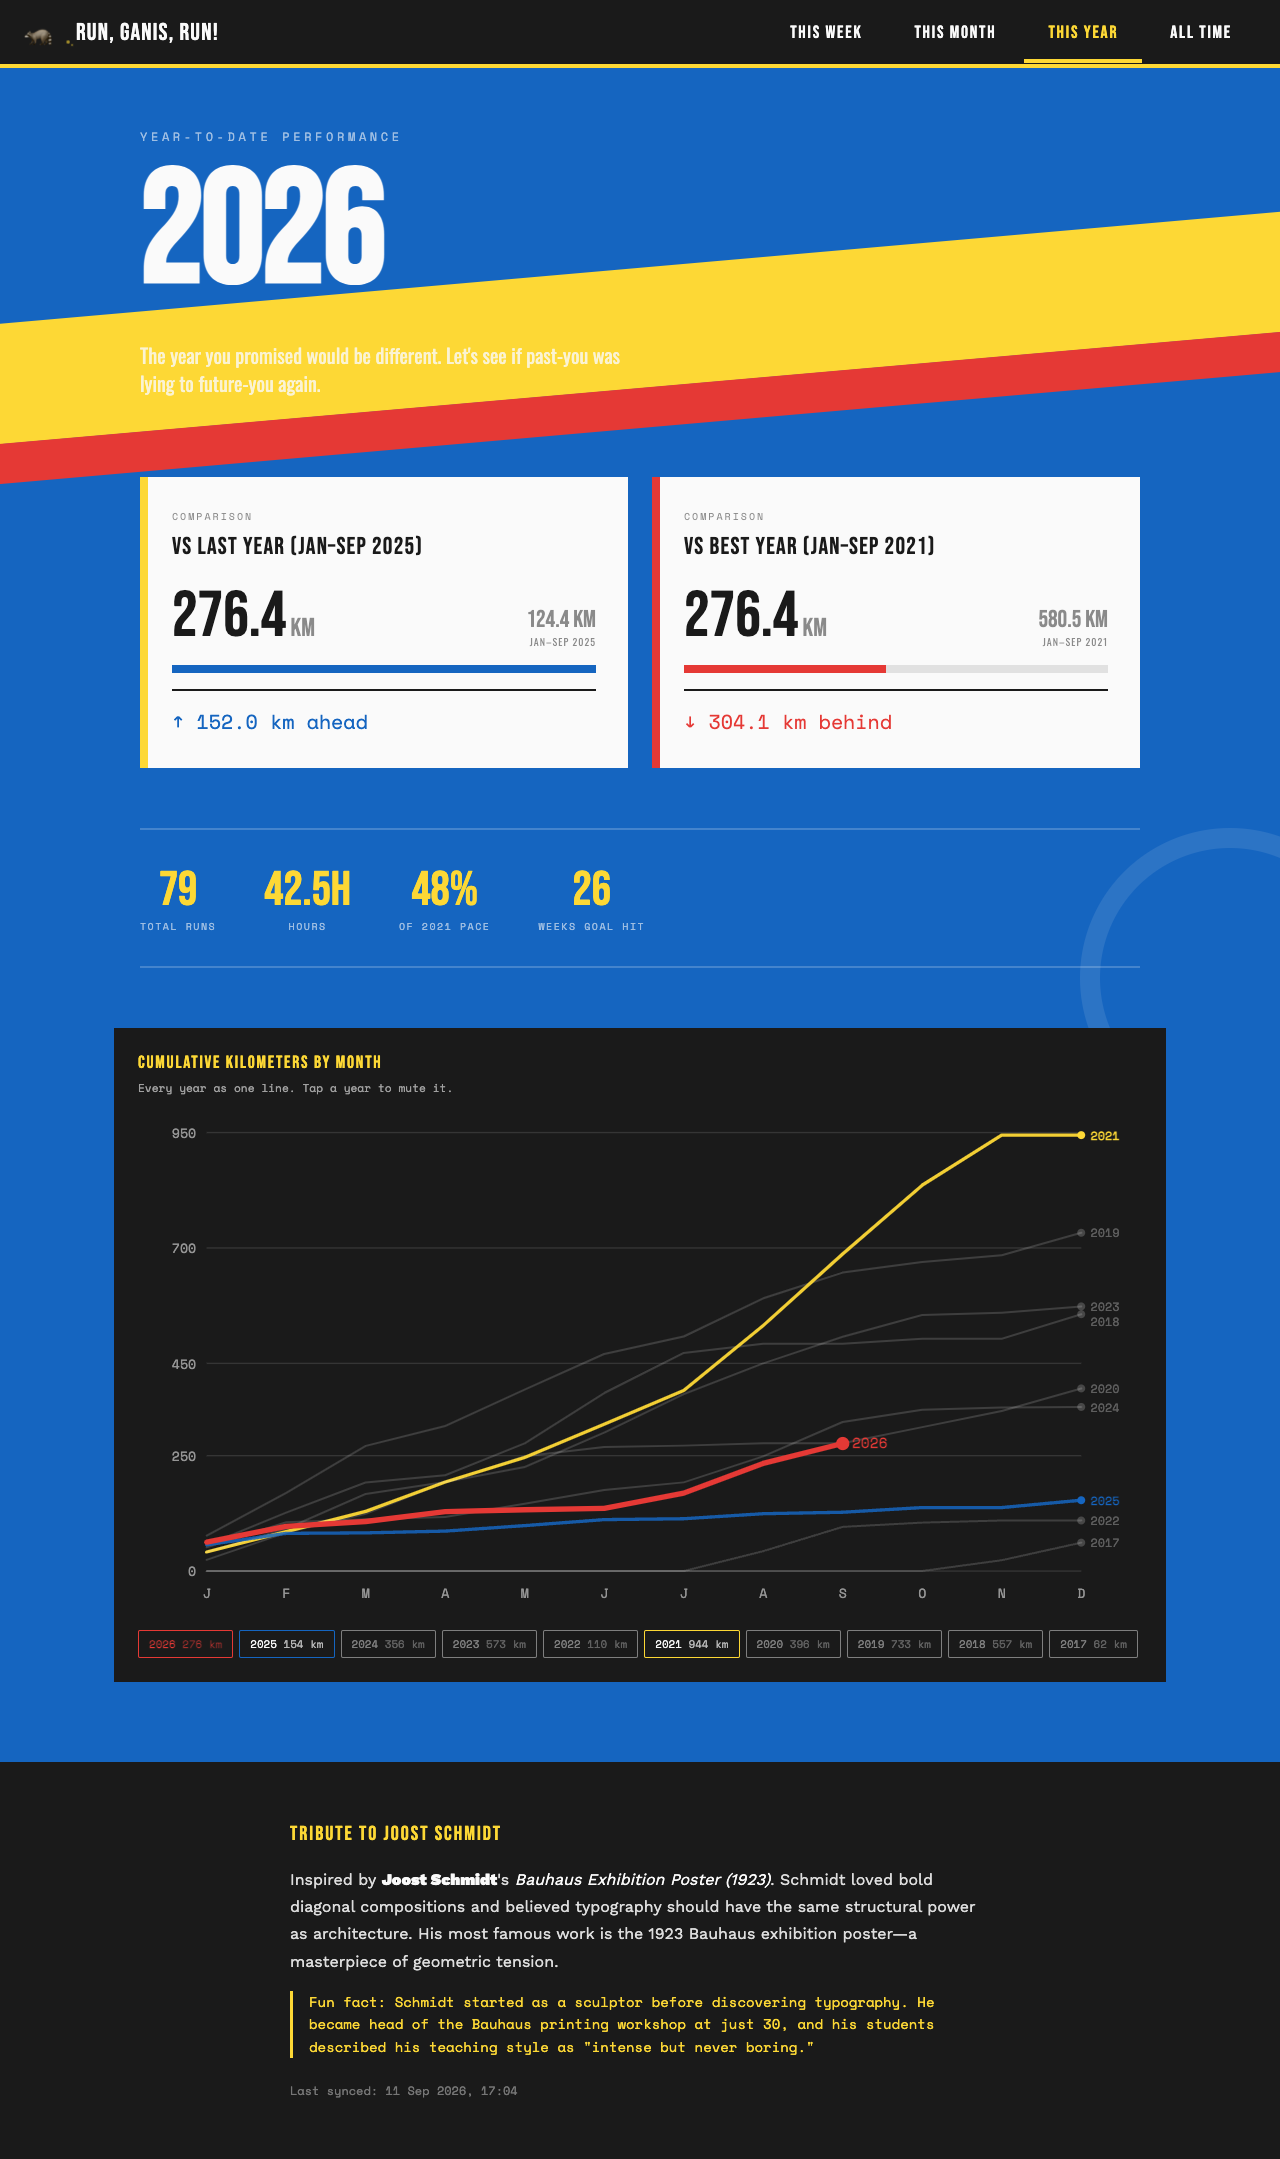
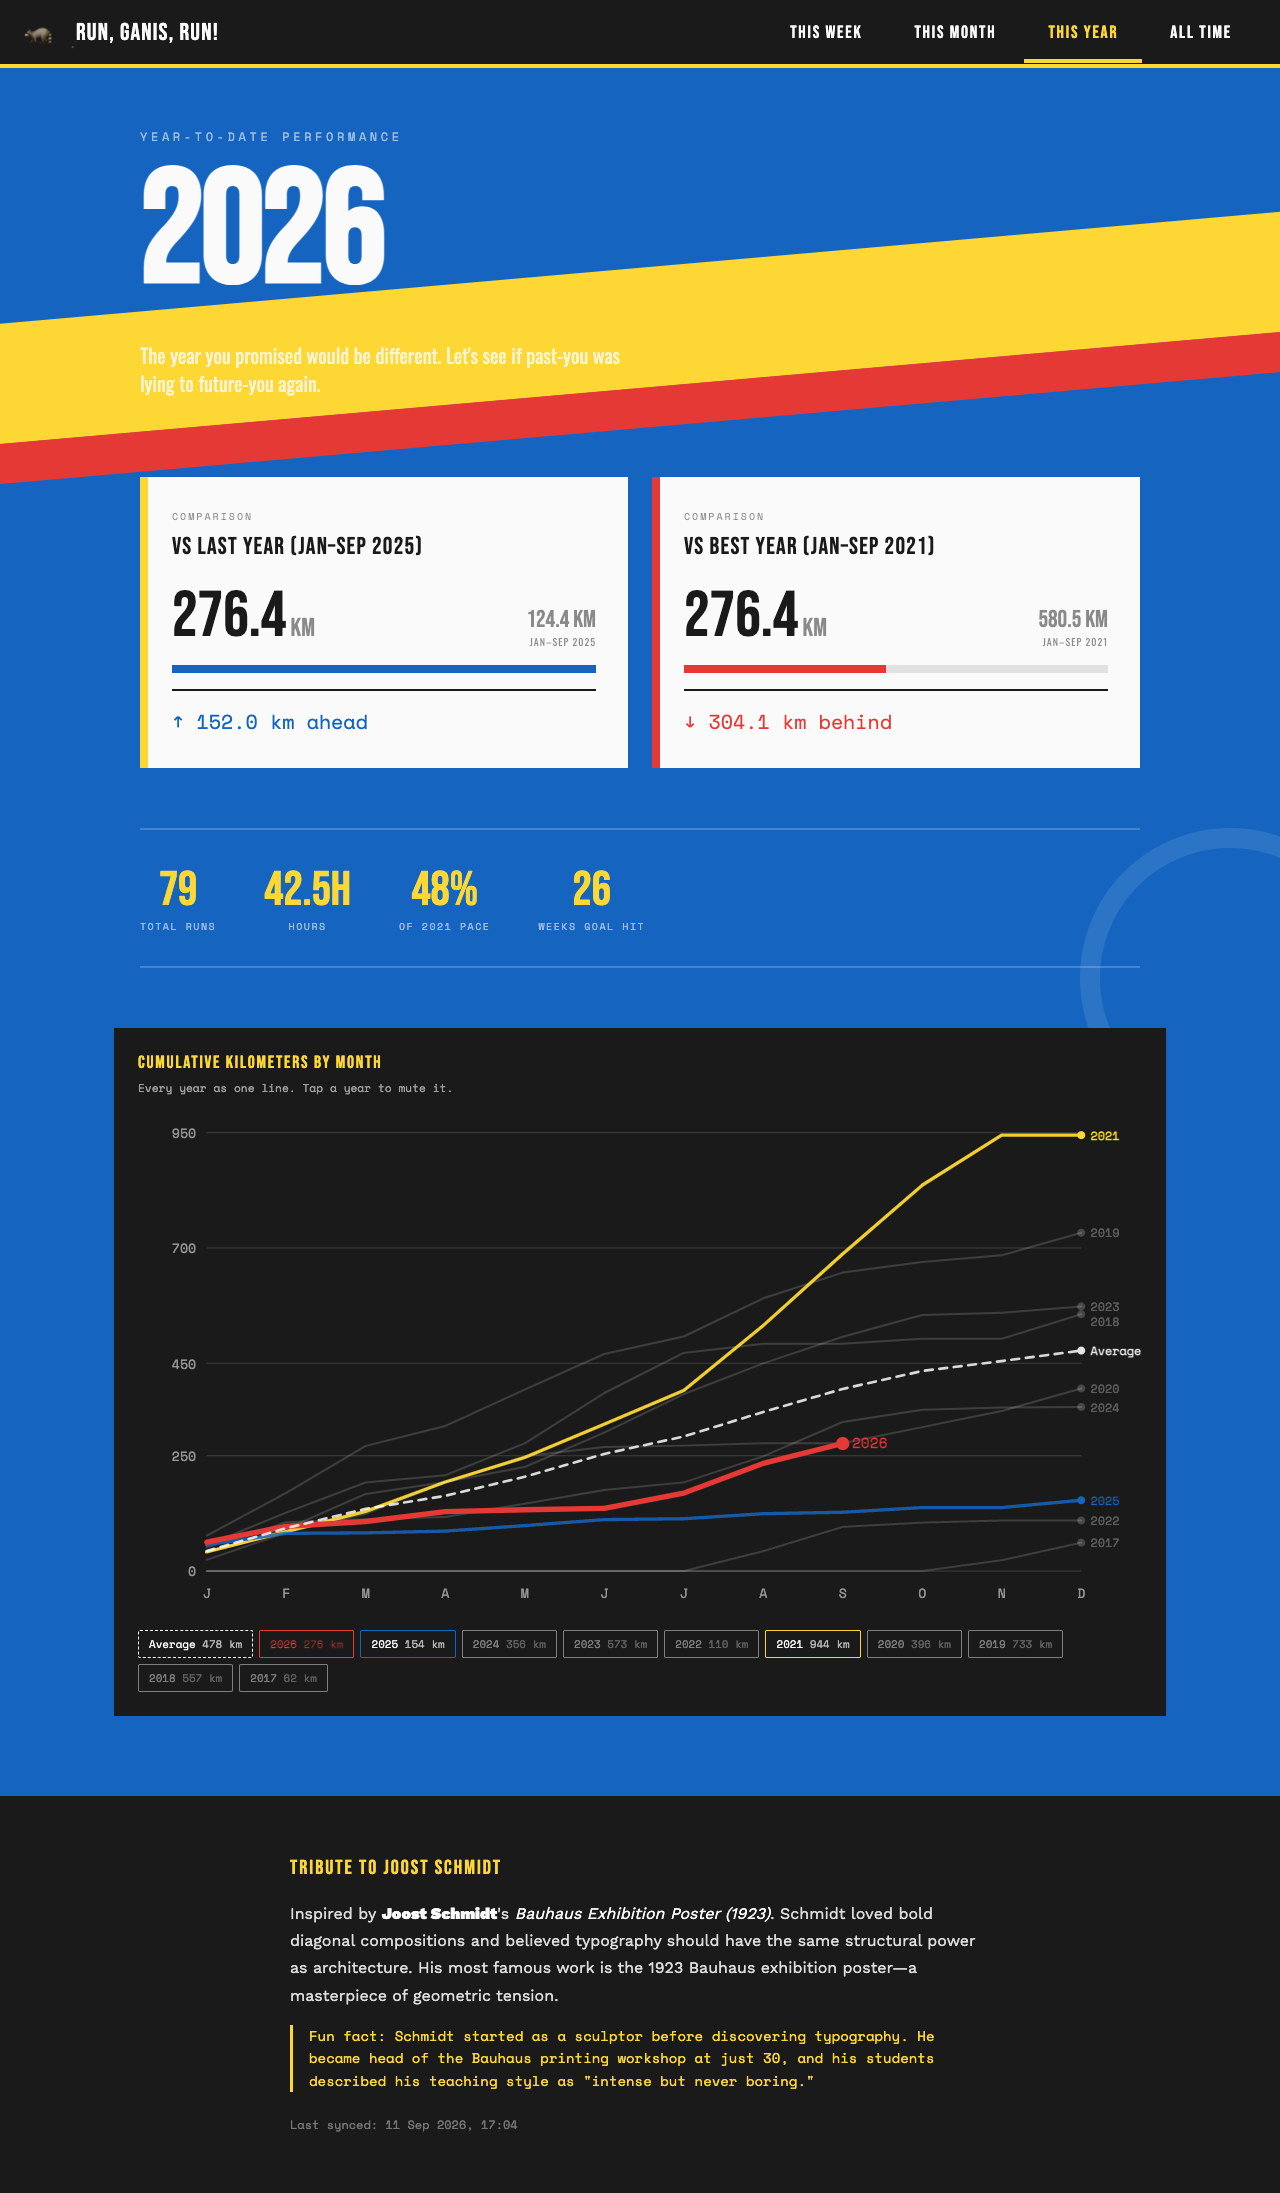
feat(year): add a dashed Average line to the cumulative chart
Month-by-month mean of the complete years, drawn as a dashed white line
and labelled "Average", so the current year has a baseline to sit
against rather than only the best and previous years.

Which years count matters. The first year of the record is excluded
because tracking began partway through it, so its low total is missing
data rather than a quiet year — including it would drag the average from
478 km down to 431 and flatter the current year by 44 km. The current
year is excluded as unfinished. 2022 stays in: its nine-month gap is
real history, not a recording failure.

The chip carries "Mean of 8 complete years" so the basis is visible.

diff --git a/js/runlog-ui.js b/js/runlog-ui.js
@@ -164,12 +164,27 @@ window.renderCumulativeChart = function renderCumulativeChart(el, months, opts) 
     return { year: y, pts, total: cum };
   });
 
+  // A typical year, averaged month by month. The first year of the record is
+  // excluded because tracking only began partway through it (so its low total
+  // is missing data, not a quiet year), and the current year because it is not
+  // finished. 2022 stays in: its long gap is real history.
+  const full = series.filter((s) => s.year !== current && s.year !== series[0].year);
+  if (full.length) {
+    let cum = 0;
+    const avg = Array.from({ length: 12 }, (_, i) => {
+      cum += full.reduce((t, s) => t + (byYear.get(s.year)[i] || 0), 0) / full.length;
+      return cum;
+    });
+    series.push({ year: 'Average', pts: avg, total: avg[11], years: full.length });
+  }
+
   const maxKm = Math.max(100, ...series.map((s) => Math.max(...s.pts.filter((p) => p !== null))));
   const W = 760, H = 380, L = 52, R = 46, T = 16, B = 34;   // right gutter holds the year labels
   const x = (i) => L + (i * (W - L - R)) / 11;
   const y = (v) => T + (H - T - B) * (1 - v / maxKm);
 
-  const role = (yr) => (yr === current ? 'cur' : yr === best ? 'best' : yr === previous ? 'prev' : 'other');
+  const role = (yr) => (yr === 'Average' ? 'avg' : yr === current ? 'cur'
+    : yr === best ? 'best' : yr === previous ? 'prev' : 'other');
   const ticks = [0, 0.25, 0.5, 0.75, 1].map((f) => Math.round((maxKm * f) / 50) * 50);
 
   const grid = [...new Set(ticks)].map((v) => `
@@ -207,7 +222,8 @@ window.renderCumulativeChart = function renderCumulativeChart(el, months, opts) 
     </svg>
     <div class="ch-legend">
       ${series.slice().reverse().map((s) => `
-        <button class="ch-chip ${role(s.year)}" data-year="${s.year}" aria-pressed="true">
+        <button class="ch-chip ${role(s.year)}" data-year="${s.year}" aria-pressed="true"
+          ${s.years ? `title="Mean of ${s.years} complete years"` : ''}>
           ${s.year} <em>${s.total.toFixed(0)} km</em>
         </button>`).join('')}
     </div>`;

diff --git a/month.html b/month.html
@@ -4,7 +4,7 @@
   <meta charset="UTF-8">
   <meta name="viewport" content="width=device-width, initial-scale=1.0">
   <title>THIS MONTH — RUN, GANIS, RUN!</title>
-  <link rel="stylesheet" href="css/shared.css?v=3">
+  <link rel="stylesheet" href="css/shared.css?v=4">
   <link href="https://fonts.googleapis.com/css2?family=Bebas+Neue&family=Space+Mono&family=Inter:wght@400;700&display=swap" rel="stylesheet">
   <style>
     /* 
@@ -453,7 +453,7 @@
   <div class="tooltip" id="tooltip"></div>
 
   <script src="js/runlog-data.js?v=2"></script>
-  <script src="js/runlog-ui.js?v=3"></script>
+  <script src="js/runlog-ui.js?v=4"></script>
   <script>
     const tooltip = document.getElementById('tooltip');
     function showTooltip(e) {

diff --git a/index.html b/index.html
@@ -4,7 +4,7 @@
   <meta charset="UTF-8">
   <meta name="viewport" content="width=device-width, initial-scale=1.0">
   <title>RUN, GANIS, RUN!</title>
-  <link rel="stylesheet" href="css/shared.css?v=3">
+  <link rel="stylesheet" href="css/shared.css?v=4">
   <link href="https://fonts.googleapis.com/css2?family=Bebas+Neue&family=Work+Sans:wght@400;600;900&display=swap" rel="stylesheet">
   <style>
     /* 
@@ -391,7 +391,7 @@
   <div class="tooltip" id="tooltip"></div>
 
   <script src="js/runlog-data.js?v=2"></script>
-  <script src="js/runlog-ui.js?v=3"></script>
+  <script src="js/runlog-ui.js?v=4"></script>
   <script>
     const tooltip = document.getElementById('tooltip');
     function showTooltip(e) {

diff --git a/alltime.html b/alltime.html
@@ -4,7 +4,7 @@
   <meta charset="UTF-8">
   <meta name="viewport" content="width=device-width, initial-scale=1.0">
   <title>ALL TIME — RUN, GANIS, RUN!</title>
-  <link rel="stylesheet" href="css/shared.css?v=3">
+  <link rel="stylesheet" href="css/shared.css?v=4">
   <link href="https://fonts.googleapis.com/css2?family=Bebas+Neue&family=Space+Mono&family=Inter:wght@400;700&display=swap" rel="stylesheet">
   <style>
     /* 
@@ -385,7 +385,7 @@
   <div class="tooltip" id="tooltip"></div>
 
   <script src="js/runlog-data.js?v=2"></script>
-  <script src="js/runlog-ui.js?v=3"></script>
+  <script src="js/runlog-ui.js?v=4"></script>
   <script>
     let allRuns = [];
     let filteredRuns = [];

diff --git a/year.html b/year.html
@@ -4,7 +4,7 @@
   <meta charset="UTF-8">
   <meta name="viewport" content="width=device-width, initial-scale=1.0">
   <title>2026 — RUN, GANIS, RUN!</title>
-  <link rel="stylesheet" href="css/shared.css?v=3">
+  <link rel="stylesheet" href="css/shared.css?v=4">
   <link href="https://fonts.googleapis.com/css2?family=Bebas+Neue&family=Oswald:wght@400;700&family=Space+Mono&display=swap" rel="stylesheet">
   <style>
     /* 
@@ -383,7 +383,7 @@
   </footer>
 
   <script src="js/runlog-data.js?v=2"></script>
-  <script src="js/runlog-ui.js?v=3"></script>
+  <script src="js/runlog-ui.js?v=4"></script>
   <script>
     async function loadData() {
       try {

diff --git a/css/shared.css b/css/shared.css
@@ -382,3 +382,9 @@
 .ch-end.prev { fill: var(--blue); opacity: 1; font-weight: 700; }
 .ch-end.best { fill: var(--yellow); opacity: 1; font-weight: 700; }
 .ch-end.cur  { fill: var(--red); opacity: 1; font-weight: 700; font-size: 11px; }
+
+/* The month-by-month mean of the complete years — a typical year, for scale. */
+.ch-line.avg { stroke: var(--white); stroke-width: 2; stroke-dasharray: 6 5; opacity: 0.85; }
+.ch-dot.avg  { fill: var(--white); opacity: 0.9; }
+.ch-end.avg  { fill: var(--white); opacity: 0.9; font-weight: 700; }
+.ch-chip.avg { opacity: 1; border-color: var(--white); border-style: dashed; }
